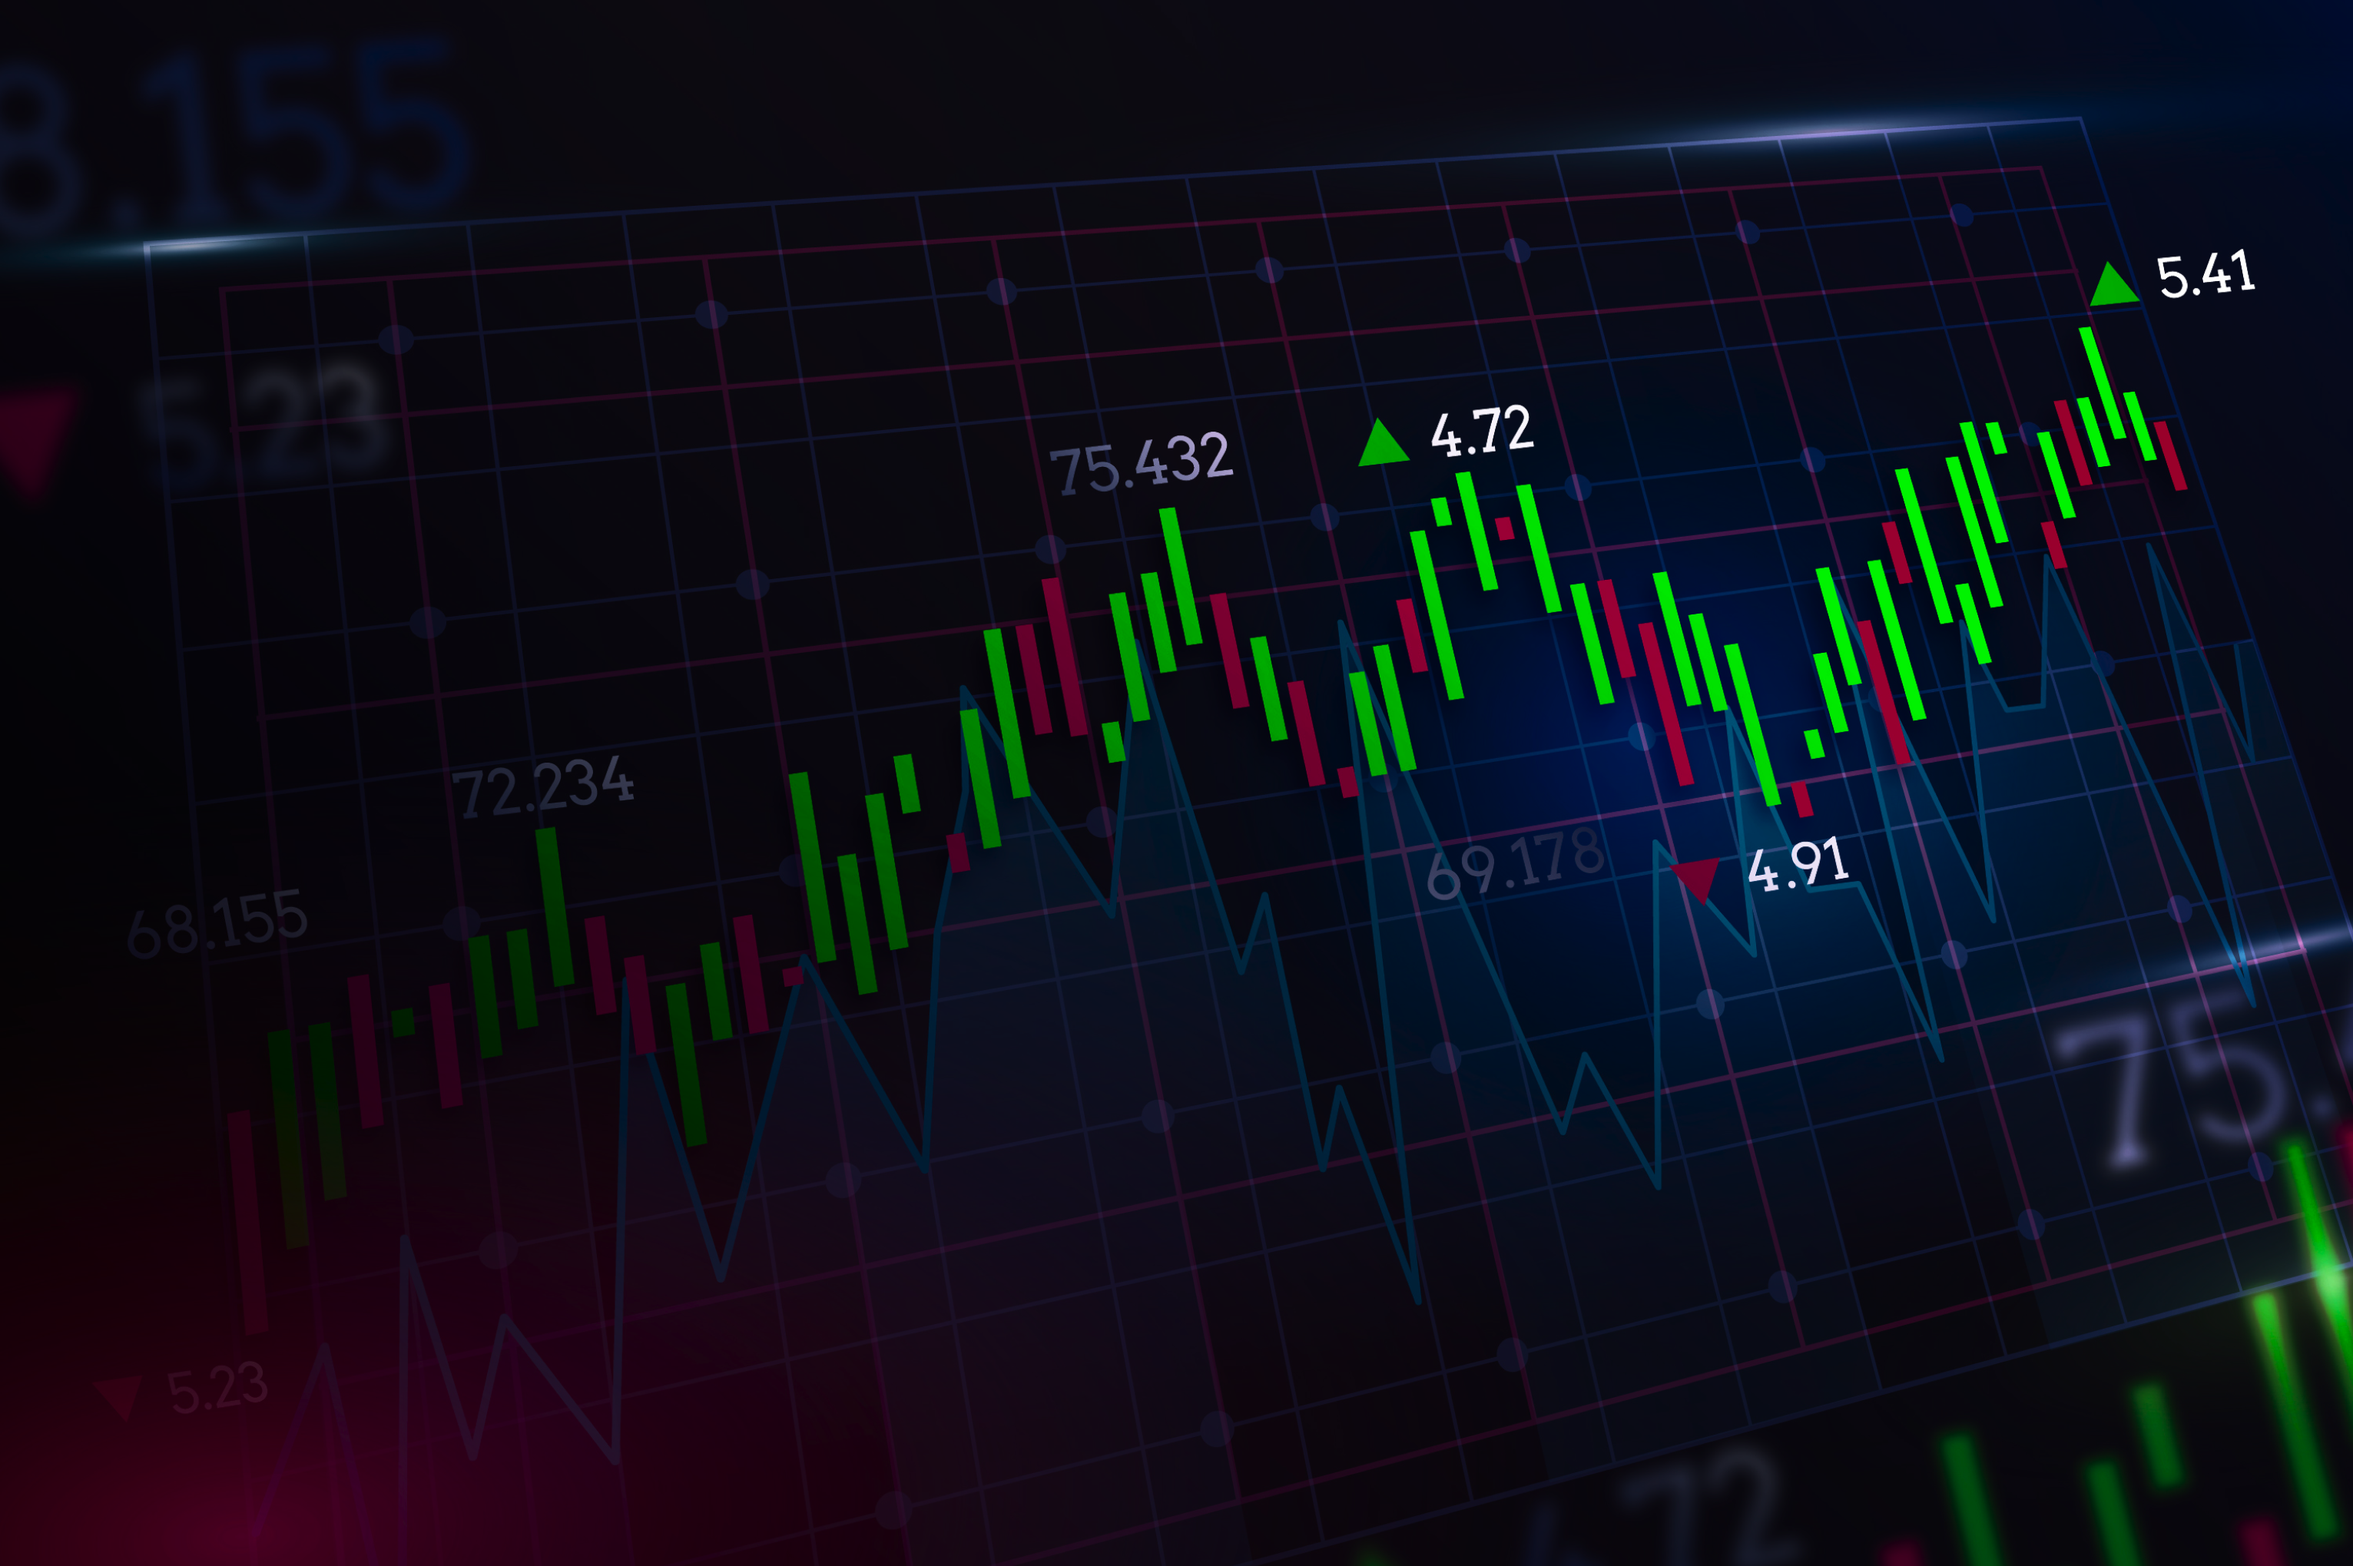
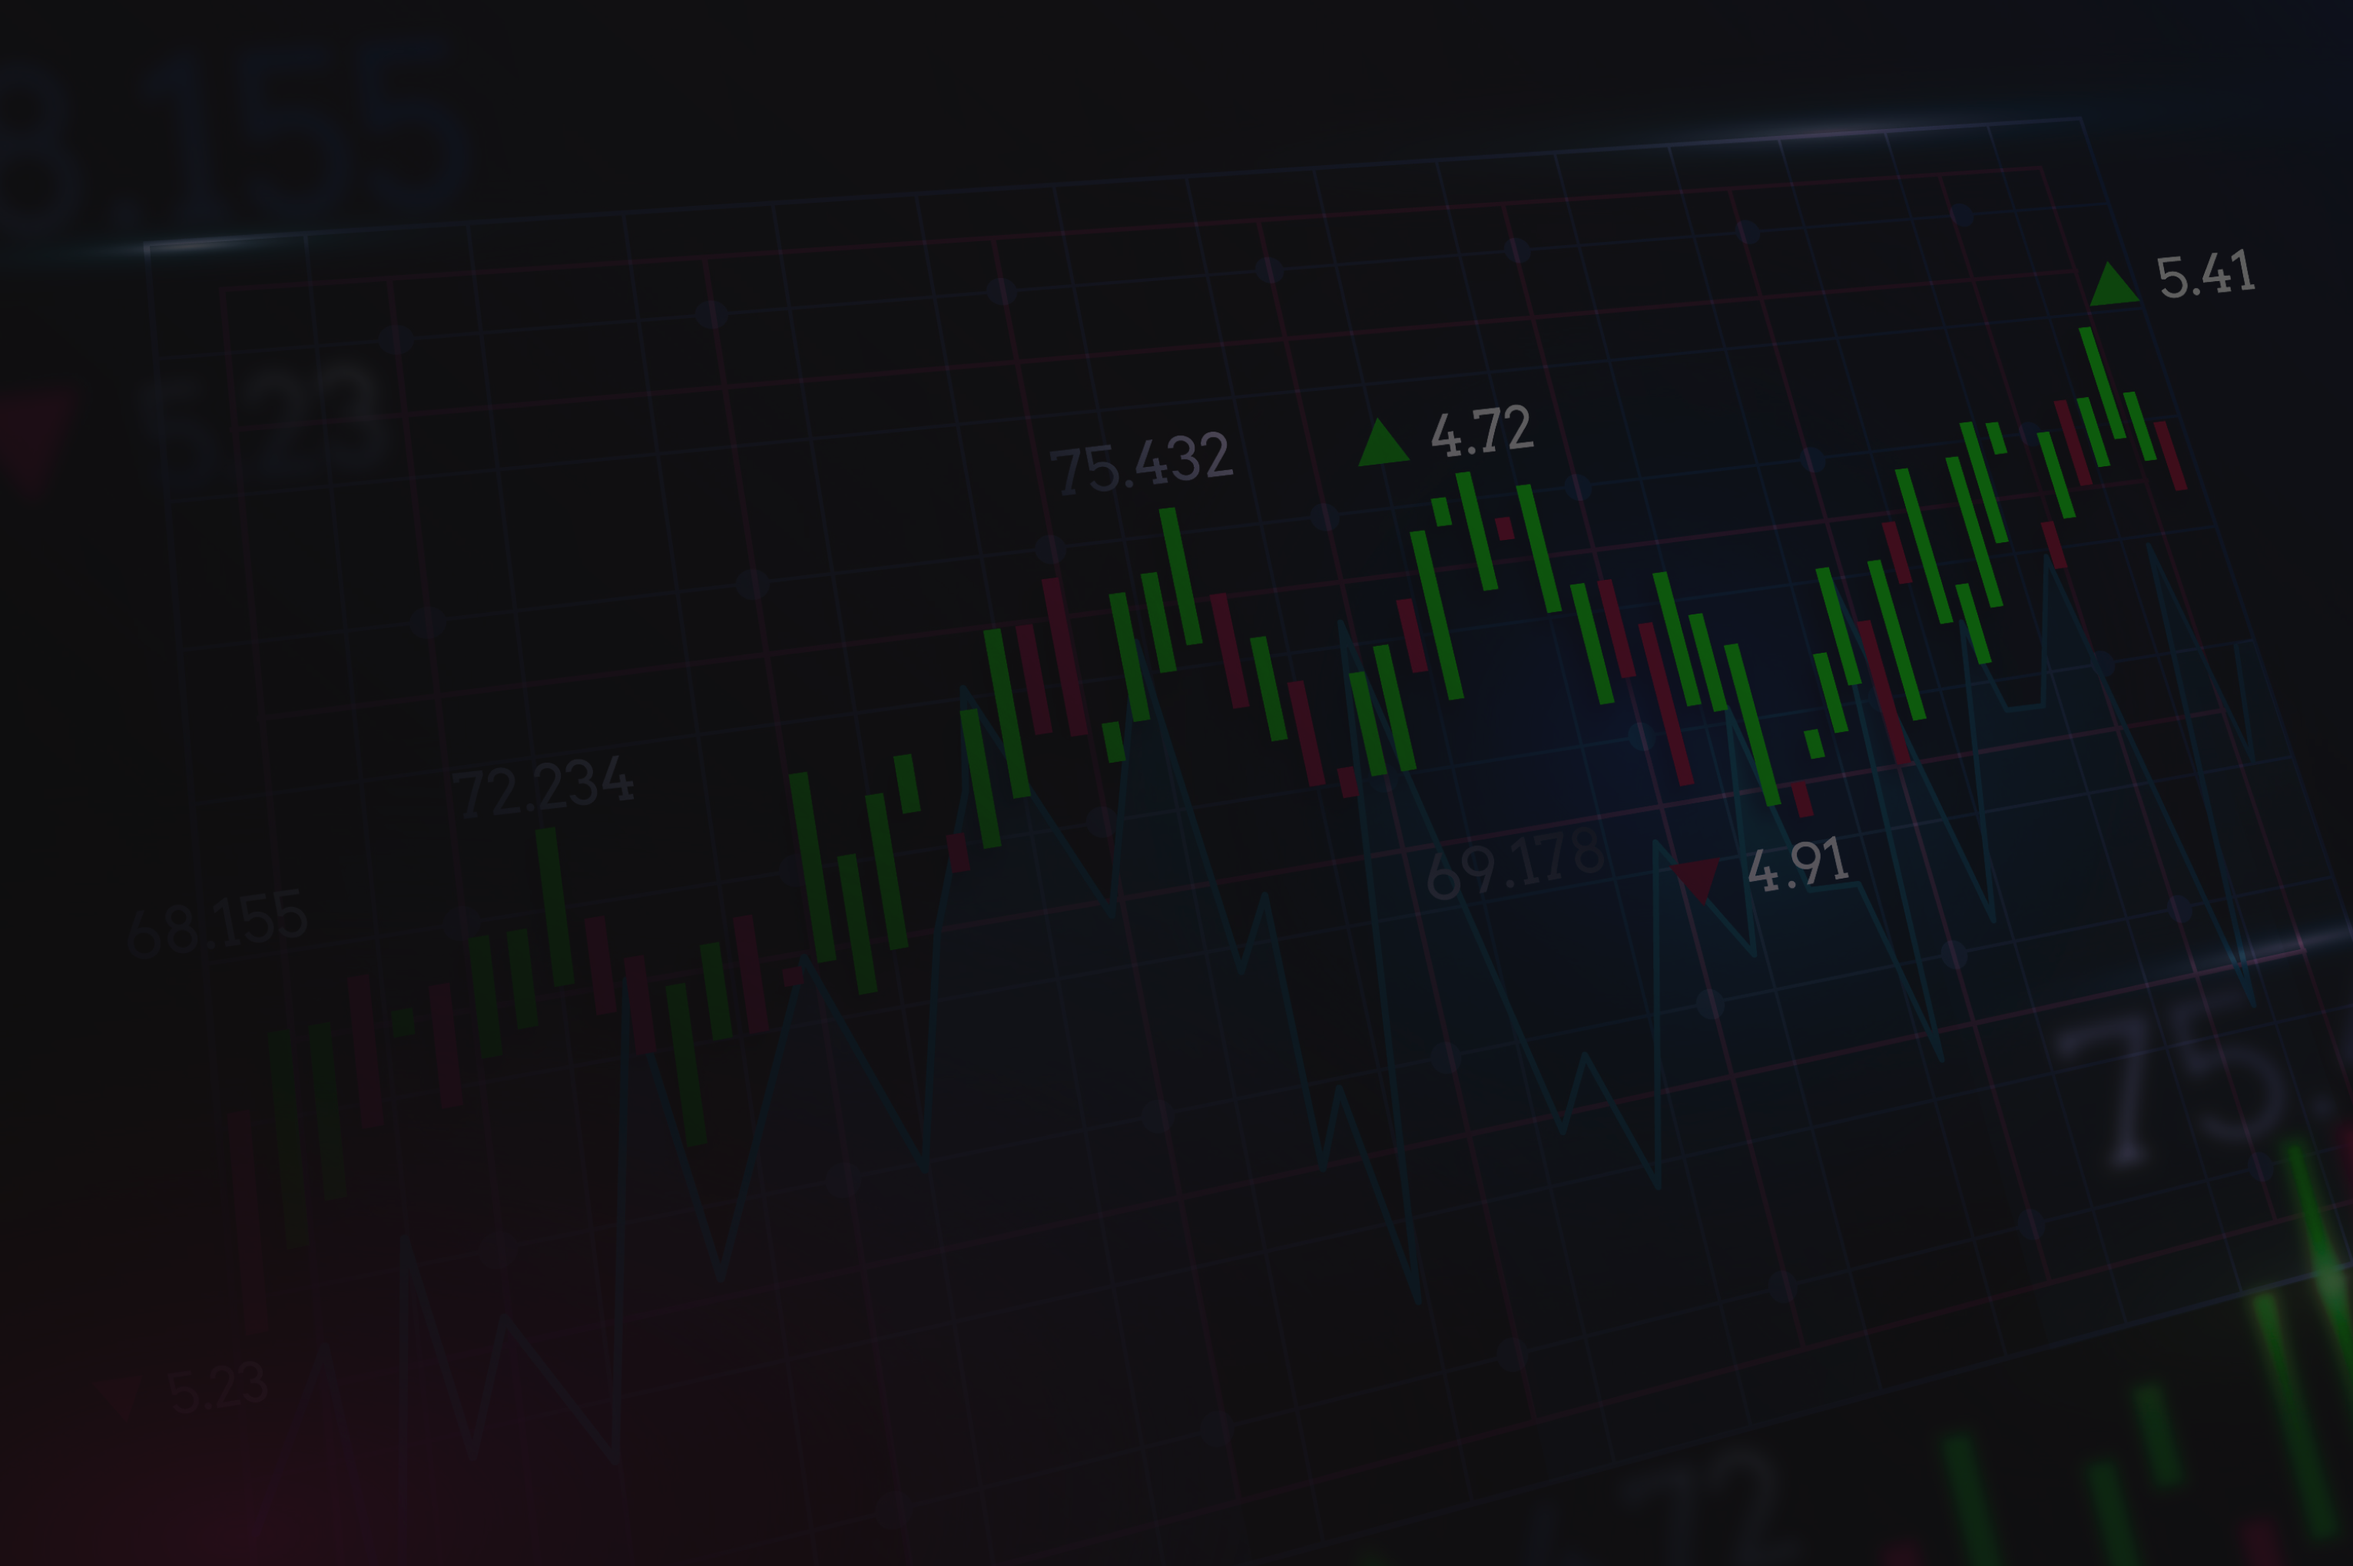
FIX: background

diff --git a/src/app/app.component.ts b/src/app/app.component.ts
@@ -8,7 +8,7 @@ import { AfterContentInit, AfterViewChecked, AfterViewInit, Component, ElementRe
 })
 export class AppComponent implements AfterViewChecked {
   title = 'forex-book';
-  videoId = 'OB-mSJsO0T0'
+  videoId = 'Hm5d0DcjFCo'
   videoWidth = 640;
   public isVideoFinished: boolean = false;
   public dimension: any;

diff --git a/src/app/video-player/video-player.component.ts b/src/app/video-player/video-player.component.ts
@@ -16,6 +16,7 @@ export class VideoPlayerComponent implements OnInit {
     iv_load_policy: 3,
     cc_load_policy: 0,
     enablejsapi: 1,
+    mute: 1,
     controls: 0,
     fs: 0,
     modestbranding: 0,

diff --git a/src/app/app.component.scss b/src/app/app.component.scss
@@ -92,9 +92,5 @@ html, body {
         }
       }
     }
-
-    .tips {
-      background-color: rgba(19, 19, 19, 0.483);
-    }
   }
 }
